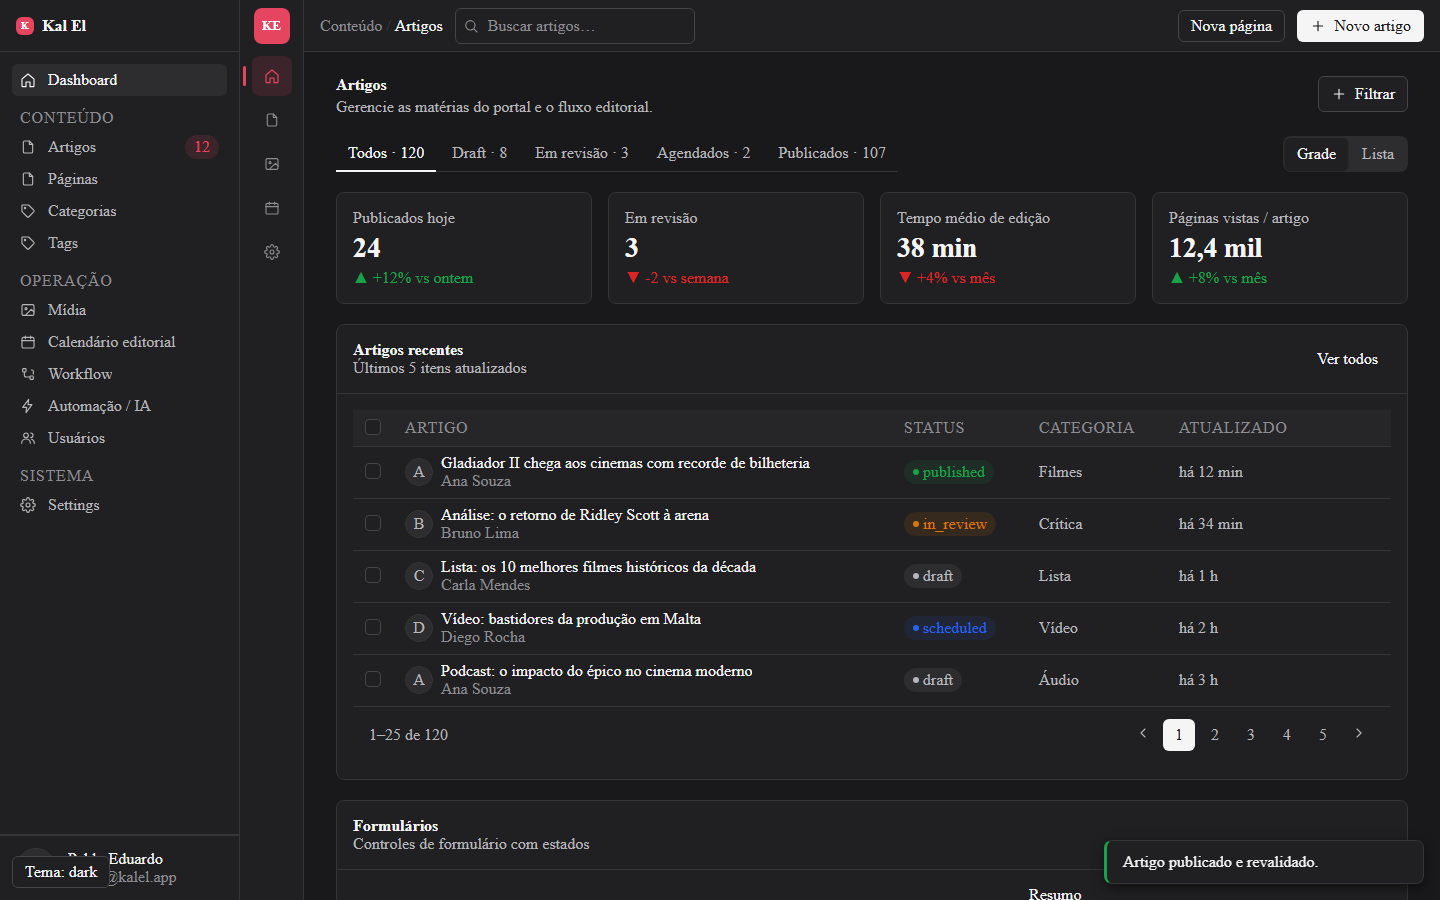
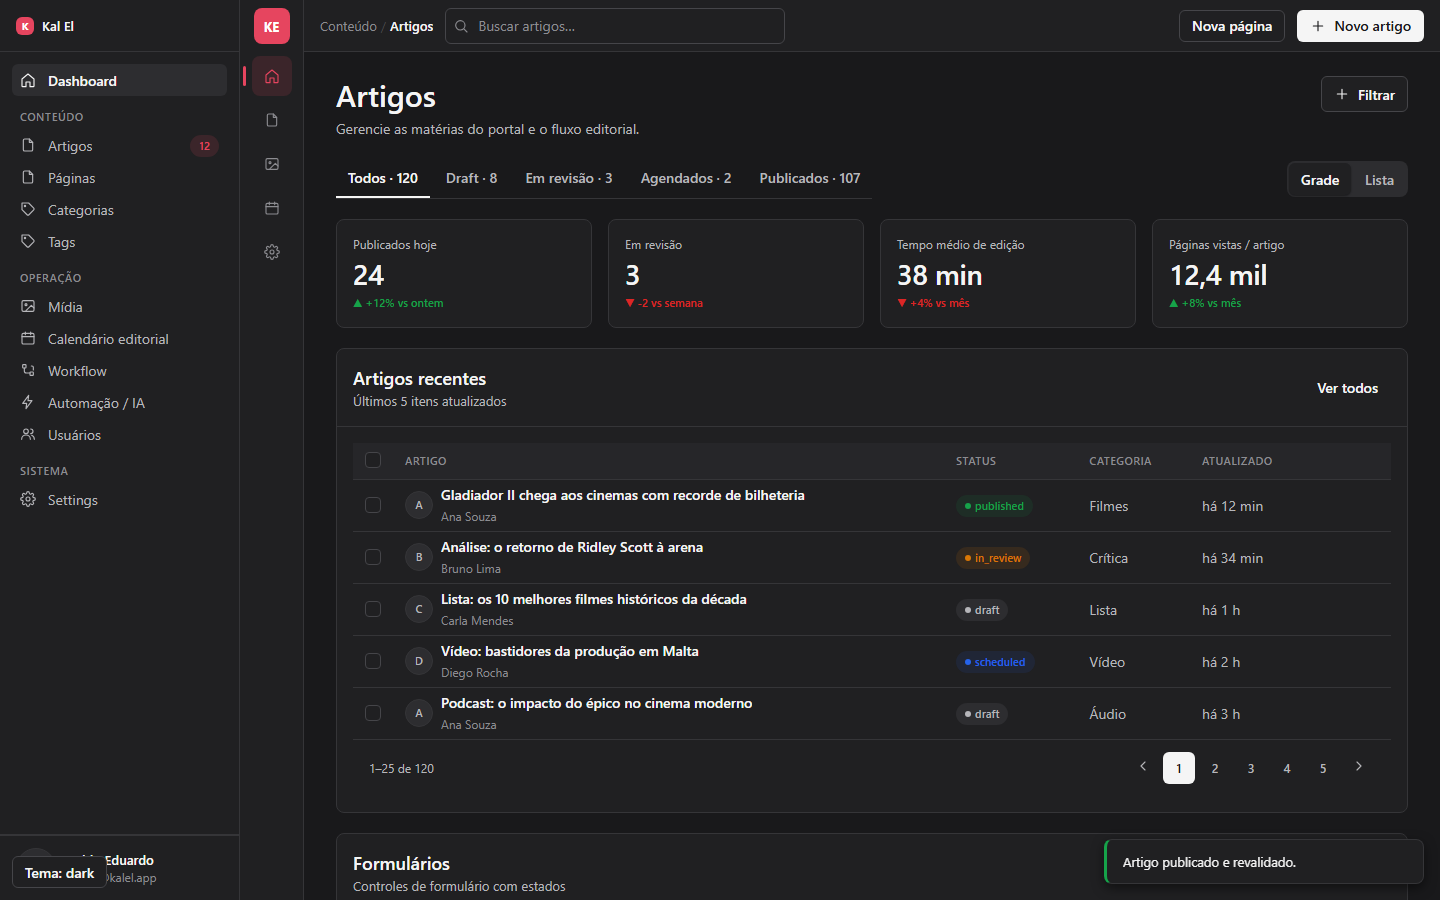
fix(design-system): valid font shorthand tokens (broke all typography), system font stack, base reset and polish

diff --git a/packages/design-system/src/styles.css b/packages/design-system/src/styles.css
@@ -1,17 +1,47 @@
 /* PEG / Kal El design system — implementation styles (prose-first, dense, border-led). */
 
 .peg-body {
-  font-family: var(--peg-font-sans);
   font: var(--peg-font-body);
   color: var(--peg-text-primary);
   background: var(--peg-canvas);
   -webkit-font-smoothing: antialiased;
+  text-rendering: optimizeLegibility;
 }
 
 .peg-body *,
 .peg-body *::before,
 .peg-body *::after {
   box-sizing: border-box;
+}
+
+/* Base reset: form controls inherit typography and drop UA quirks */
+.peg-body button,
+.peg-body input,
+.peg-body select,
+.peg-body textarea {
+  margin: 0;
+  font-family: inherit;
+  font-size: inherit;
+  line-height: inherit;
+}
+
+.peg-body ::selection {
+  background: var(--peg-accent-soft);
+}
+
+.peg-body a {
+  color: var(--peg-info);
+  text-decoration: none;
+}
+
+.peg-body a:hover {
+  text-decoration: underline;
+}
+
+.peg-body :focus-visible {
+  outline: 2px solid var(--peg-info);
+  outline-offset: 1px;
+  border-radius: var(--peg-radius-sm);
 }
 
 .peg-btn {
@@ -27,11 +57,14 @@
   cursor: pointer;
   white-space: nowrap;
   user-select: none;
-  transition: background-color 120ms ease, border-color 120ms ease, color 120ms ease;
+  transition: background-color 120ms ease, border-color 120ms ease, color 120ms ease, box-shadow 120ms ease;
 }
 .peg-btn:focus-visible {
   outline: none;
   box-shadow: var(--peg-focus-ring);
+}
+.peg-btn:active:not(:disabled) {
+  transform: translateY(0.5px);
 }
 .peg-btn:disabled {
   opacity: 0.5;
@@ -42,7 +75,7 @@
   color: var(--peg-canvas);
 }
 .peg-btn--primary:hover:not(:disabled) {
-  background: #000;
+  filter: brightness(0.94);
 }
 .peg-btn--secondary {
   background: var(--peg-surface);
@@ -364,8 +397,8 @@
   gap: var(--peg-space-1);
 }
 .peg-kpi__label { font: var(--peg-font-caption); color: var(--peg-text-secondary); }
-.peg-kpi__value { font-size: 28px; line-height: 34px; font-weight: 600; letter-spacing: -0.01em; }
-.peg-kpi__delta { font: var(--peg-font-micro); font-weight: 500; }
+.peg-kpi__value { font-size: 28px; line-height: 34px; font-weight: 600; letter-spacing: -0.01em; font-variant-numeric: tabular-nums; }
+.peg-kpi__delta { font: var(--peg-font-micro); font-weight: 500; font-variant-numeric: tabular-nums; }
 .peg-kpi__delta--up { color: var(--peg-success); }
 .peg-kpi__delta--down { color: var(--peg-danger); }
 
@@ -860,6 +893,9 @@
   flex-shrink: 0;
 }
 .peg-topbar__spacer { flex: 1; }
+.peg-topbar .peg-search {
+  width: min(340px, 34vw);
+}
 .peg-save-state {
   font: var(--peg-font-caption);
   color: var(--peg-text-tertiary);

diff --git a/packages/design-system/src/tokens.css b/packages/design-system/src/tokens.css
@@ -22,20 +22,22 @@
 
   --peg-focus-ring: 0 0 0 2px var(--peg-surface), 0 0 0 4px rgba(37, 99, 235, 0.45);
 
-  --peg-font-sans: "Inter", ui-sans-serif, system-ui, -apple-system, "Segoe UI", sans-serif;
-  --peg-font-mono: ui-monospace, "SF Mono", "Cascadia Mono", Menlo, Consolas, monospace;
+  /* System-first sans stack: no external font dependency, consistent everywhere */
+  --peg-font-sans: system-ui, -apple-system, "Segoe UI", Roboto, "Helvetica Neue", Arial, "Noto Sans", sans-serif;
+  --peg-font-mono: ui-monospace, "SF Mono", "Cascadia Mono", Menlo, Consolas, "Roboto Mono", monospace;
 
-  --peg-font-display: 48px/56px 600;
-  --peg-font-h1: 36px/44px 600;
-  --peg-font-h2: 30px/38px 600;
-  --peg-font-h3: 24px/32px 600;
-  --peg-font-h4: 18px/26px 600;
-  --peg-font-body-lg: 16px/24px 400;
-  --peg-font-body: 14px/21px 400;
-  --peg-font-body-sm: 13px/19px 400;
-  --peg-font-label: 13px/18px 500;
-  --peg-font-caption: 12px/17px 400;
-  --peg-font-micro: 11px/16px 500;
+  /* Valid font shorthand: <weight> <size>/<line-height> <family> */
+  --peg-font-display: 600 48px/56px var(--peg-font-sans);
+  --peg-font-h1: 600 36px/44px var(--peg-font-sans);
+  --peg-font-h2: 600 30px/38px var(--peg-font-sans);
+  --peg-font-h3: 600 24px/32px var(--peg-font-sans);
+  --peg-font-h4: 600 18px/26px var(--peg-font-sans);
+  --peg-font-body-lg: 400 16px/24px var(--peg-font-sans);
+  --peg-font-body: 400 14px/21px var(--peg-font-sans);
+  --peg-font-body-sm: 400 13px/19px var(--peg-font-sans);
+  --peg-font-label: 500 13px/18px var(--peg-font-sans);
+  --peg-font-caption: 400 12px/17px var(--peg-font-sans);
+  --peg-font-micro: 500 11px/16px var(--peg-font-sans);
 
   --peg-space-1: 4px;
   --peg-space-2: 8px;

diff --git a/packages/design-system/dev/index.html b/packages/design-system/dev/index.html
@@ -4,12 +4,6 @@
     <meta charset="UTF-8" />
     <meta name="viewport" content="width=device-width, initial-scale=1.0" />
     <title>Kal El — Calibration Screen</title>
-    <link rel="preconnect" href="https://fonts.googleapis.com" />
-    <link rel="preconnect" href="https://fonts.gstatic.com" crossorigin />
-    <link
-      href="https://fonts.googleapis.com/css2?family=Inter:wght@400;500;600&display=swap"
-      rel="stylesheet"
-    />
     <style>
       html,
       body {
